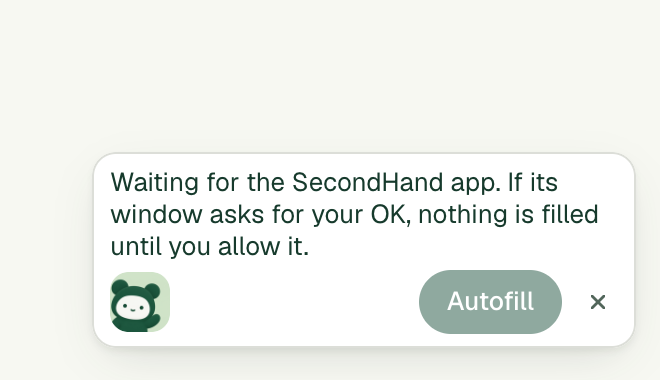
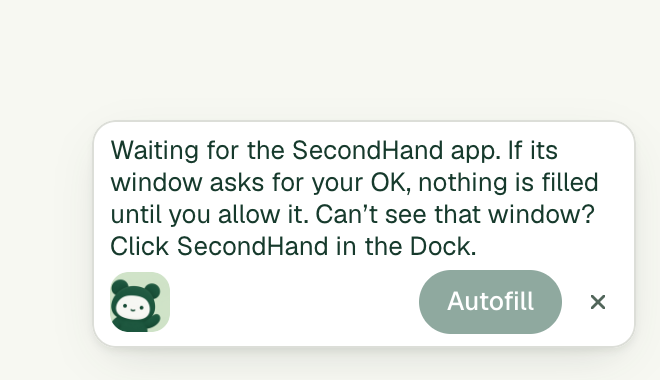
fix: say where the app's window is while Autofill waits for it
The side panel said the app's window may open behind Chrome, but the card,
where the reader clicked, did not. Both surfaces now say the same waiting line,
ending with where to find that window on this computer: "Click SecondHand in the
Dock" on a Mac, "in the taskbar" on Windows, "It may be behind Chrome"
elsewhere. Spanish says the app opens the window ("Si abre una ventana para
pedirle permiso") instead of "su ventana", which read as the reader's own.

Changed region(s): [[0.1212, 0.3763, 0.9394, 0.6947], [0.9394, 0.4053, 0.9697, 0.4342], [0.1515, 0.3184, 0.1818, 0.3474]]

diff --git a/extension/strings.js b/extension/strings.js
@@ -40,6 +40,9 @@
     'widget.needYouTitle': 'Go to the next question left, in the form',
     'shortcut.keys': 'Keyboard shortcut: {keys}.',
     'widget.working': 'Waiting for the SecondHand app. If its window asks for your OK, nothing is filled until you allow it.',
+    'widget.findWindowMac': 'Can’t see that window? Click SecondHand in the Dock.',
+    'widget.findWindowWindows': 'Can’t see that window? Click SecondHand in the taskbar.',
+    'widget.findWindow': 'Can’t see that window? It may be behind Chrome.',
     'widget.aiUnavailable': 'Chrome’s AI isn’t available, so nothing was guessed.',
     'widget.needYou': { one: '{count} question left', other: '{count} questions left' },
     'widget.findInForm': 'Find it in the form.',
@@ -87,7 +90,6 @@
     'panel.openIowa': 'Open Iowa’s SNAP application and your checklist appears here. On another food-assistance form, click the SecondHand icon beside Chrome’s address bar.',
     'panel.openIowaLink': 'Open Iowa’s SNAP application',
     'panel.stopping': 'Stopping autofill…',
-    'panel.filling': 'Waiting for the SecondHand app. If its window asks for your OK, nothing is filled until you allow it. The window may open behind Chrome.',
     'panel.fieldOffScreen': 'That field isn’t on screen right now. Find it in Iowa’s form.',
     'panel.chromeCouldntAskSite': 'Chrome couldn’t ask for access to this site.',
     'panel.chromeDeclinedSite': 'Chrome didn’t allow SecondHand on this site. Nothing changed.',
@@ -420,7 +422,10 @@
     'widget.showWaitingTitle': 'Mostrar la tarjeta de SecondHand: necesita su respuesta',
     'widget.needYouTitle': 'Ir a la siguiente pregunta que falta, en el formulario',
     'shortcut.keys': 'Atajo de teclado: {keys}.',
-    'widget.working': 'Esperando a la aplicación SecondHand. Si su ventana le pide permiso, no se llena nada hasta que usted lo permita. Está en inglés: “Allow once” es solo esta vez; “Always allow on this computer”, siempre.',
+    'widget.working': 'Esperando a la aplicación SecondHand. Si abre una ventana para pedirle permiso, no se llena nada hasta que usted lo permita. Está en inglés: “Allow once” es solo esta vez; “Always allow on this computer”, siempre.',
+    'widget.findWindowMac': '¿No ve la ventana? Haga clic en SecondHand en el Dock.',
+    'widget.findWindowWindows': '¿No ve la ventana? Haga clic en SecondHand en la barra de tareas.',
+    'widget.findWindow': '¿No ve la ventana? Puede estar detrás de Chrome.',
     'widget.aiUnavailable': 'La IA de Chrome no está disponible, así que no se adivinó nada.',
     'widget.needYou': { one: 'Falta {count}', other: 'Faltan {count}' },
     'widget.findInForm': 'Búsquelo en el formulario.',
@@ -465,7 +470,6 @@
     'panel.openIowa': 'Abra la solicitud de SNAP de Iowa y aquí verá la lista de preguntas. En otro formulario de ayuda alimentaria, haga clic en el ícono de SecondHand junto a la barra de direcciones de Chrome.',
     'panel.openIowaLink': 'Abrir la solicitud de SNAP de Iowa',
     'panel.stopping': 'Deteniendo el autocompletado…',
-    'panel.filling': 'Esperando a la aplicación SecondHand. Si su ventana le pide permiso, no se llena nada hasta que usted lo permita. La ventana puede abrirse detrás de Chrome y está en inglés: “Allow once” es solo esta vez; “Always allow on this computer”, siempre.',
     'panel.fieldOffScreen': 'Ese campo no está en la pantalla ahora. Búsquelo en el formulario de Iowa.',
     'panel.chromeCouldntAskSite': 'Chrome no pudo pedir acceso a este sitio.',
     'panel.chromeDeclinedSite': 'Chrome no permitió SecondHand en este sitio. No cambió nada.',
@@ -796,6 +800,9 @@
     'widget.needYouTitle': 'Đến câu hỏi còn lại tiếp theo trong biểu mẫu',
     'shortcut.keys': 'Phím tắt: {keys}.',
     'widget.working': 'Đang chờ ứng dụng SecondHand. Nếu cửa sổ của nó xin phép bạn, sẽ không có gì được điền cho đến khi bạn cho phép. Cửa sổ bằng tiếng Anh: “Allow once” là chỉ lần này; “Always allow on this computer” là luôn luôn.',
+    'widget.findWindowMac': 'Không thấy cửa sổ? Hãy bấm SecondHand trên Dock.',
+    'widget.findWindowWindows': 'Không thấy cửa sổ? Hãy bấm SecondHand trên thanh tác vụ.',
+    'widget.findWindow': 'Không thấy cửa sổ? Nó có thể nằm sau Chrome.',
     'widget.aiUnavailable': 'AI của Chrome không khả dụng nên không có gì được đoán.',
     'widget.needYou': { one: '{count} mục cần bạn', other: '{count} mục cần bạn' },
     'widget.findInForm': 'Hãy tìm nó trong biểu mẫu.',
@@ -840,7 +847,6 @@
     'panel.openIowa': 'Hãy mở đơn SNAP của Iowa, danh sách kiểm tra sẽ hiện ở đây. Với biểu mẫu hỗ trợ thực phẩm khác, hãy bấm biểu tượng SecondHand cạnh thanh địa chỉ của Chrome.',
     'panel.openIowaLink': 'Mở đơn SNAP của Iowa',
     'panel.stopping': 'Đang dừng tự điền…',
-    'panel.filling': 'Đang chờ ứng dụng SecondHand. Nếu cửa sổ của nó xin phép bạn, sẽ không có gì được điền cho đến khi bạn cho phép. Cửa sổ có thể mở phía sau Chrome và bằng tiếng Anh: “Allow once” là chỉ lần này; “Always allow on this computer” là luôn luôn.',
     'panel.fieldOffScreen': 'Ô đó hiện không có trên màn hình. Hãy tìm nó trong biểu mẫu của Iowa.',
     'panel.chromeCouldntAskSite': 'Chrome không thể xin quyền truy cập trang web này.',
     'panel.chromeDeclinedSite': 'Chrome không cho phép SecondHand trên trang web này. Không có gì thay đổi.',
@@ -1172,6 +1178,9 @@
     'widget.needYouTitle': '前往表格中下一个剩下的问题',
     'shortcut.keys': '键盘快捷键：{keys}。',
     'widget.working': '正在等待 SecondHand 应用。如果它的窗口请求您的同意，在您允许之前不会填写任何内容。窗口为英文：“Allow once”是仅此一次，“Always allow on this computer”是始终允许。',
+    'widget.findWindowMac': '看不到窗口？请点击程序坞中的 SecondHand。',
+    'widget.findWindowWindows': '看不到窗口？请点击任务栏中的 SecondHand。',
+    'widget.findWindow': '看不到窗口？它可能在 Chrome 后面。',
     'widget.aiUnavailable': 'Chrome 的 AI 不可用，因此没有进行推测。',
     'widget.needYou': { one: '{count} 项需要您处理', other: '{count} 项需要您处理' },
     'widget.findInForm': '请在表格中找到它。',
@@ -1216,7 +1225,6 @@
     'panel.openIowa': '打开爱荷华州的 SNAP 申请，您的核对清单就会显示在这里。如果是其他食物援助表格，请点击 Chrome 地址栏旁的 SecondHand 图标。',
     'panel.openIowaLink': '打开爱荷华州的 SNAP 申请',
     'panel.stopping': '正在停止自动填写…',
-    'panel.filling': '正在等待 SecondHand 应用。如果它的窗口请求您的同意，在您允许之前不会填写任何内容。窗口可能在 Chrome 后面打开，且为英文：“Allow once”是仅此一次，“Always allow on this computer”是始终允许。',
     'panel.fieldOffScreen': '该栏位现在不在屏幕上。请在爱荷华州的表格中找到它。',
     'panel.chromeCouldntAskSite': 'Chrome 无法请求访问此网站。',
     'panel.chromeDeclinedSite': 'Chrome 未允许 SecondHand 在此网站上运行。没有任何更改。',
@@ -1548,6 +1556,9 @@
     'widget.needYouTitle': 'Aller à la prochaine question qui reste, dans le formulaire',
     'shortcut.keys': 'Raccourci clavier : {keys}.',
     'widget.working': 'En attente de l’application SecondHand. Si sa fenêtre demande votre accord, rien n’est rempli avant que vous l’autorisiez. Elle est en anglais : « Allow once » pour cette fois, « Always allow on this computer » pour toujours.',
+    'widget.findWindowMac': 'Vous ne la voyez pas ? Cliquez sur SecondHand dans le Dock.',
+    'widget.findWindowWindows': 'Vous ne la voyez pas ? Cliquez sur SecondHand dans la barre des tâches.',
+    'widget.findWindow': 'Vous ne la voyez pas ? Elle est peut-être derrière Chrome.',
     'widget.aiUnavailable': 'L’IA de Chrome n’est pas disponible : rien n’a été deviné.',
     'widget.needYou': { one: '{count} à faire', other: '{count} à faire' },
     'widget.findInForm': 'Trouvez-la dans le formulaire.',
@@ -1592,7 +1603,6 @@
     'panel.openIowa': 'Ouvrez la demande SNAP de l’Iowa et votre liste de contrôle apparaîtra ici. Pour un autre formulaire d’aide alimentaire, cliquez sur l’icône SecondHand à côté de la barre d’adresse de Chrome.',
     'panel.openIowaLink': 'Ouvrir la demande SNAP de l’Iowa',
     'panel.stopping': 'Arrêt du remplissage…',
-    'panel.filling': 'En attente de l’application SecondHand. Si sa fenêtre demande votre accord, rien n’est rempli avant que vous l’autorisiez. Elle peut s’ouvrir derrière Chrome et elle est en anglais : « Allow once » pour cette fois, « Always allow on this computer » pour toujours.',
     'panel.fieldOffScreen': 'Ce champ n’est pas à l’écran pour le moment. Trouvez-le dans le formulaire de l’Iowa.',
     'panel.chromeCouldntAskSite': 'Chrome n’a pas pu demander l’accès à ce site.',
     'panel.chromeDeclinedSite': 'Chrome n’a pas autorisé SecondHand sur ce site. Rien n’a changé.',
@@ -1924,6 +1934,9 @@
     'widget.needYouTitle': 'انتقل إلى السؤال المتبقي التالي في النموذج',
     'shortcut.keys': 'اختصار لوحة المفاتيح: {keys}.',
     'widget.working': 'بانتظار تطبيق SecondHand. إذا طلبت نافذته موافقتك، فلن يُعبّأ شيء حتى تسمح بذلك. النافذة بالإنجليزية: “Allow once” تعني هذه المرة فقط، و“Always allow on this computer” تعني دائمًا.',
+    'widget.findWindowMac': 'لا ترى النافذة؟ انقر على SecondHand في Dock.',
+    'widget.findWindowWindows': 'لا ترى النافذة؟ انقر على SecondHand في شريط المهام.',
+    'widget.findWindow': 'لا ترى النافذة؟ قد تكون خلف Chrome.',
     'widget.aiUnavailable': 'الذكاء الاصطناعي في Chrome غير متاح، لذلك لم يُخمَّن شيء.',
     'widget.needYou': { one: 'بحاجة إليك: {count}', other: 'بحاجة إليك: {count}' },
     'widget.findInForm': 'ابحث عنه في النموذج.',
@@ -1968,7 +1981,6 @@
     'panel.openIowa': 'افتح طلب SNAP الخاص بأيوا وستظهر قائمة التحقق هنا. لنموذج آخر للمساعدة الغذائية، انقر على أيقونة SecondHand بجانب شريط العناوين في Chrome.',
     'panel.openIowaLink': 'فتح طلب SNAP الخاص بأيوا',
     'panel.stopping': 'جارٍ إيقاف التعبئة التلقائية…',
-    'panel.filling': 'بانتظار تطبيق SecondHand. إذا طلبت نافذته موافقتك، فلن يُعبّأ شيء حتى تسمح بذلك. قد تُفتح النافذة خلف Chrome، وهي بالإنجليزية: “Allow once” تعني هذه المرة فقط، و“Always allow on this computer” تعني دائمًا.',
     'panel.fieldOffScreen': 'هذا الحقل غير ظاهر على الشاشة الآن. ابحث عنه في نموذج أيوا.',
     'panel.chromeCouldntAskSite': 'لم يتمكن Chrome من طلب الوصول إلى هذا الموقع.',
     'panel.chromeDeclinedSite': 'لم يسمح Chrome لـ SecondHand بالعمل على هذا الموقع. لم يتغير شيء.',

diff --git a/extension/panel.js b/extension/panel.js
@@ -81,6 +81,12 @@
   // When SecondHand didn't open: one line saying where to open it on this computer.
   const DIDNT_OPEN = { mac: 'desktop.didntOpenMac', win: 'desktop.didntOpenWindows' };
   const didntOpen = async () => ({ key: DIDNT_OPEN[(await chrome.runtime.getPlatformInfo()).os] || 'desktop.didntOpen' });
+  // While Autofill waits for the app: what it waits for, and where to find the app's window, which can open
+  // behind Chrome, on this computer.
+  const FIND_WINDOW = { mac: 'widget.findWindowMac', win: 'widget.findWindowWindows' };
+  let findWindow = 'widget.findWindow';
+  chrome.runtime.getPlatformInfo?.().then(info => { findWindow = FIND_WINDOW[info?.os] || findWindow; }).catch(() => {});
+  const waitingForApp = () => ({ key: 'joined', params: { first: { key: 'widget.working' }, second: { key: findWindow } } });
 
   // Every fixed word on either surface comes from the catalog.
   function applyStatic() {
@@ -191,7 +197,7 @@
     const readyLine = () => !startedBefore() ? t('widget.iowaReady') : pageKey === 'iowa-personal-information' ? t('widget.addressNext') : '';
     function statusText() {
       if (outdated) return t((OUTDATED_LINES[outdatedKey] || OUTDATED_LINES['panel.outdated'])[0]);
-      if (working) return t('widget.working');
+      if (working) return words(waitingForApp());
       if (note) return words(note, 120);
       if (!result) return !site ? readyLine() : languageTrouble ? t('widget.languageCheckFailed') : t('widget.siteReady', { host: hostOf(site.origin) });
       // What the worker reported, in the side panel's words, without the count of what is left: the link beside
@@ -1204,7 +1210,7 @@
       if ($('panel-autofill').disabled) return;
       const stopping = autopilot;
       if (!stopping && !site) noteStarted();
-      const result = await act(stopping ? { type: 'ui:stop', confirmed: true } : { type: 'ui:autofill', confirmed: true }, { key: stopping ? 'panel.stopping' : 'panel.filling' });
+      const result = await act(stopping ? { type: 'ui:stop', confirmed: true } : { type: 'ui:autofill', confirmed: true }, stopping ? { key: 'panel.stopping' } : waitingForApp());
       if (result) autopilot = !stopping && continuing(result);
       if (reported(result)) show(briefly(fromResult(result)), result.state === 'error');
       controls();
